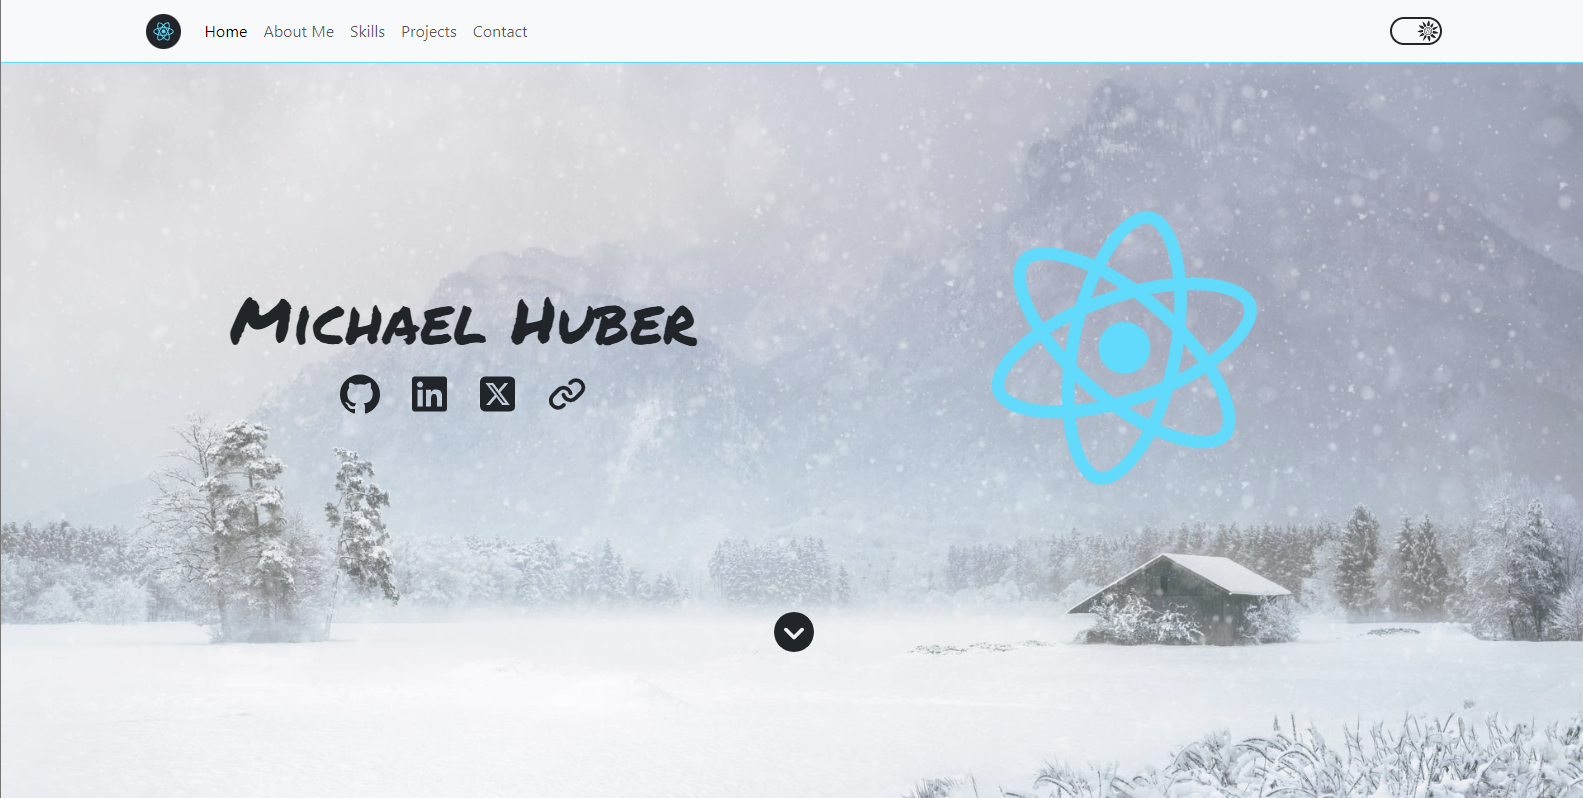
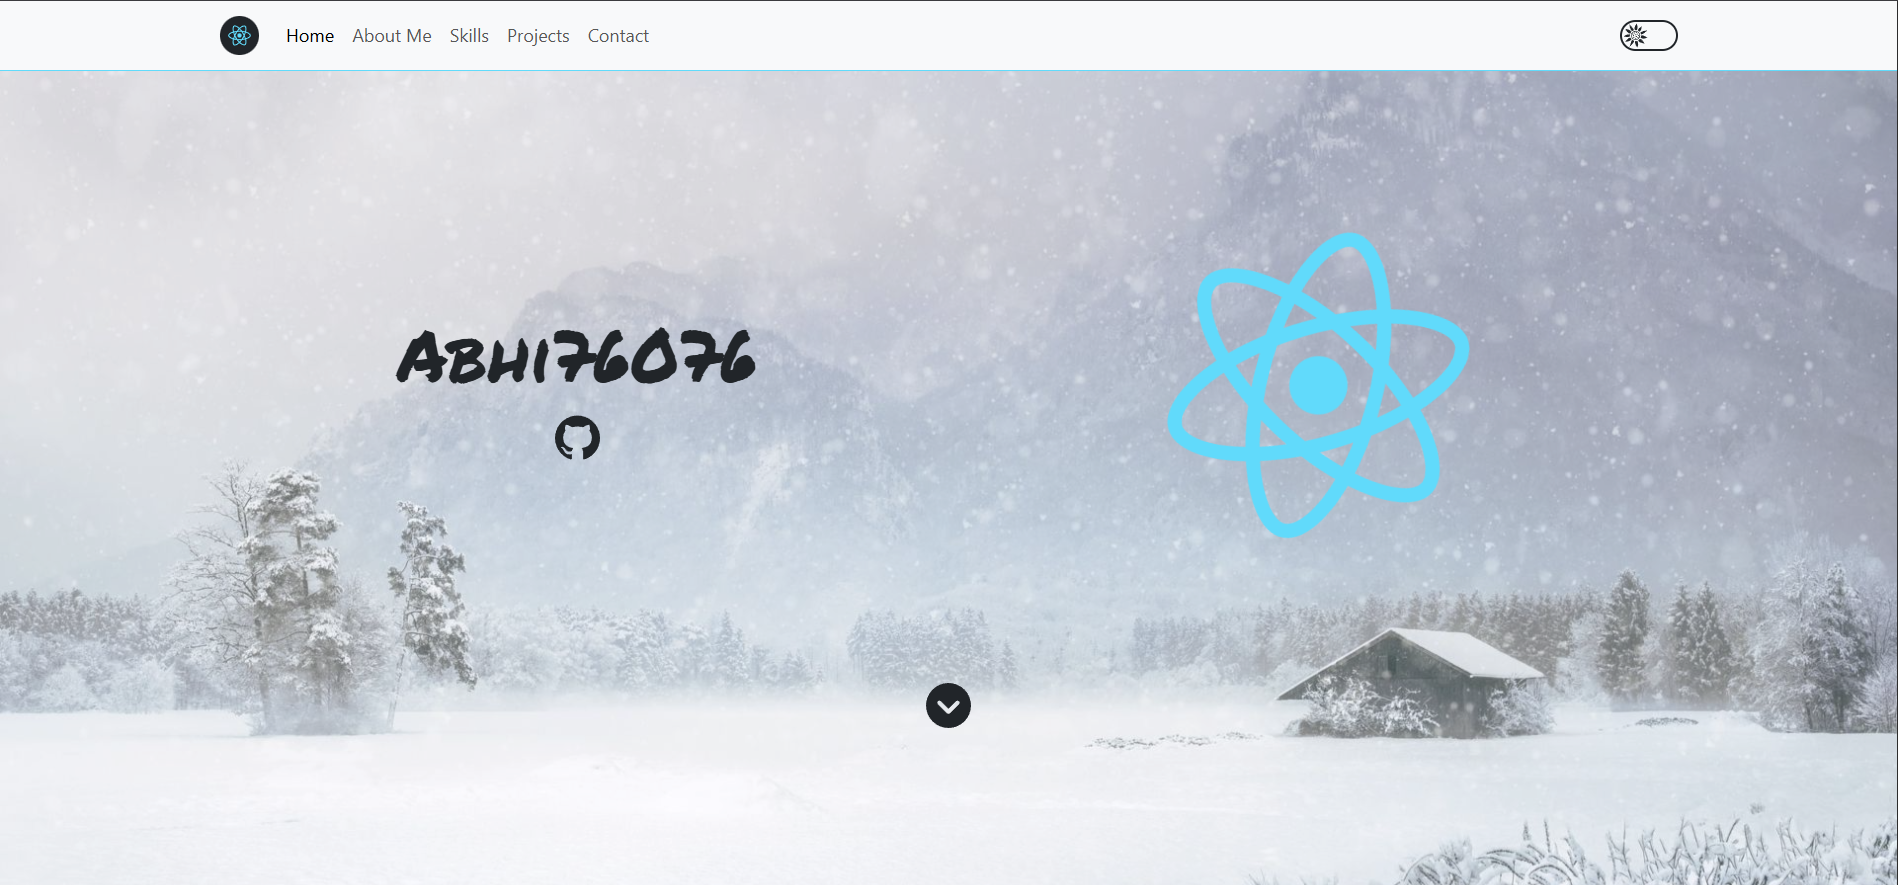
Abhi

diff --git a/src/config.js b/src/config.js
@@ -2,7 +2,7 @@
 import { Icon } from "@iconify/react";
 
 // Navbar Logo image (add your image to the src/images directory and uncomment the line below to import your image)
-// import newLogo from "./images/yourFileName"
+import newLogo from "./images/newLogo.jpg"
 
 // Hero Images (add your images to the /images directory with the same names)
 import HeroLight from "./images/hero-light.jpg";
@@ -18,13 +18,13 @@ import Logo from "./images/logo.svg";
 export const githubUsername = "Abhi76076";
 
 // Navbar Logo image
-export const navLogo = null;
+export const navLogo = newLogo;
 
 /* Main
  ************************************************************** 
   Add a custom blog icon or update the hero images for the Main section.
 */
-export const Blog = null;
+export const Blog = <Icon icon="ph:link-bold" />;
 
 // Hero images (imported above - lines 8-9)
 export { HeroLight as Light };
@@ -35,7 +35,7 @@ export { HeroDark as Dark };
   Add a second paragraph for the about me section.
 */
 export const moreInfo =
-  "I enjoy learning about technology and helping others use it to improve their lives and be more productive. I built this site with React, React Bootstrap, Redux, and the GitHub REST API.";
+  "I enjoy learning about technology, enhance my knowledge and improve my skills to be more productive. I built this site with React, React Bootstrap, Redux, and the GitHub REST API.";
 
 /* Skills
  ************************************************************** 

diff --git a/README.md b/README.md
@@ -1,12 +1,10 @@
 # A React Portfolio Template for GitHub
 
-[![GitHub Repo stars](https://img.shields.io/github/stars/mshuber1981/github-react-portfolio-template?color=%2361dbfb&style=for-the-badge&logo=github)](https://github.com/mshuber1981/github-react-portfolio-template/stargazers/) [![GitHub Repo Forks](https://img.shields.io/github/forks/mshuber1981/github-react-portfolio-template?color=%2361dbfb&style=for-the-badge&logo=github&label=Forks)](https://github.com/mshuber1981/github-react-portfolio-template/network/members) [![X (formerly Twitter) URL](https://img.shields.io/twitter/url?url=https%3A%2F%2Fx.com&style=for-the-badge&logo=X&label=Say%20thank%20you!&labelColor=black&color=black)](https://twitter.com/intent/tweet?text=Thanks%20for%20the%20awesome%20Portfolio%20Template!%20https://github.com/mshuber1981/github-react-portfolio-template&via=MikeyHuber1981)
-
 A performant, accessible, progressive React portfolio template that uses the [GitHub REST API](https://docs.github.com/en/free-pro-team@latest/rest).
 
 Add your GitHub username once and all of your info will automatically be updated. Deploy to GitHub pages in a few simple steps.
 
-## [Live Demo](https://mshuber1981.github.io/github-react-portfolio-template/#/)
+## [Live Demo](http://192.168.56.1:3000/Abhi76076/portfolio.git)
 
 [Google PageSpeed Insights](https://developers.google.com/speed/pagespeed/insights/)
 
@@ -30,7 +28,7 @@ Add your GitHub username once and all of your info will automatically be updated
    ```
 
 5. Navigate to the src directory and open src/config.js
-6. Add your GitHub username ([src/config.js](https://github.com/mshuber1981/github-react-portfolio-template/blob/main/src/config.js#L18) line 18)
+6. Add your GitHub username ([src/config.js](https://github.com/Abhi76076/portfolio/blob/main/src/config.js) line 18)
 
    ```javascript
    /* START HERE
@@ -50,7 +48,7 @@ Add your GitHub username once and all of your info will automatically be updated
 
 ![Projects](/README_images/contact.png)
 
-1. The contact form uses [Formspree](https://formspree.io/), create an account and add your endpoint URL ([src/config.js](https://github.com/mshuber1981/github-react-portfolio-template/blob/main/src/config.js#L114) line 114)
+1. The contact form uses [Formspree](https://formspree.io/), create an account and add your endpoint URL ([src/config.js](https://github.com/Abhi76076/portfolio/blob/main/src/config.js) line 114)
 
    ```javascript
    /* Contact Info
@@ -65,7 +63,7 @@ Add your GitHub username once and all of your info will automatically be updated
 
 A helpful guide for Create React App deployments with GitHub Pages can be found [here](https://create-react-app.dev/docs/deployment#github-pages).
 
-1. Update the homepage value ([package.json](https://github.com/mshuber1981/github-react-portfolio-template/blob/main/package.json#L3) line 3)
+1. Update the homepage value ([package.json](https://github.com/Abhi76076/portfolio/blob/main/package.json#L3) line 3)
 
    ```json
    "homepage": "https://YourUserName.github.io/your-repo/",
